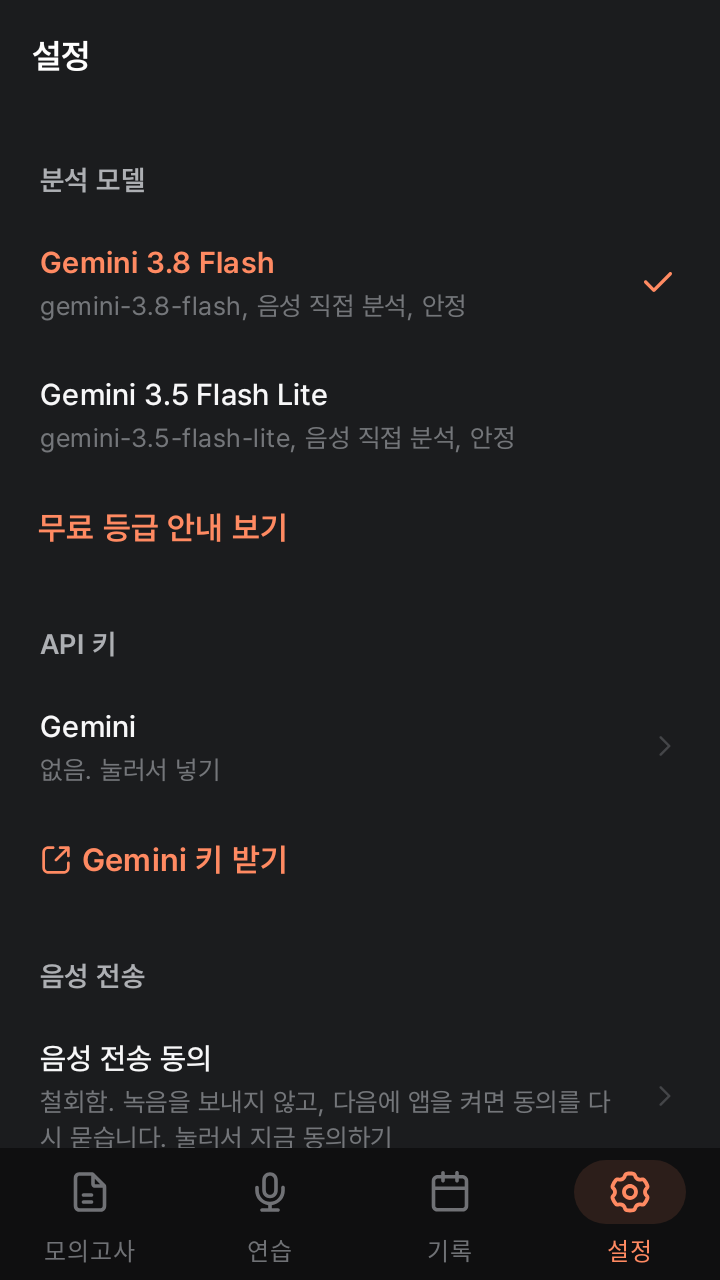
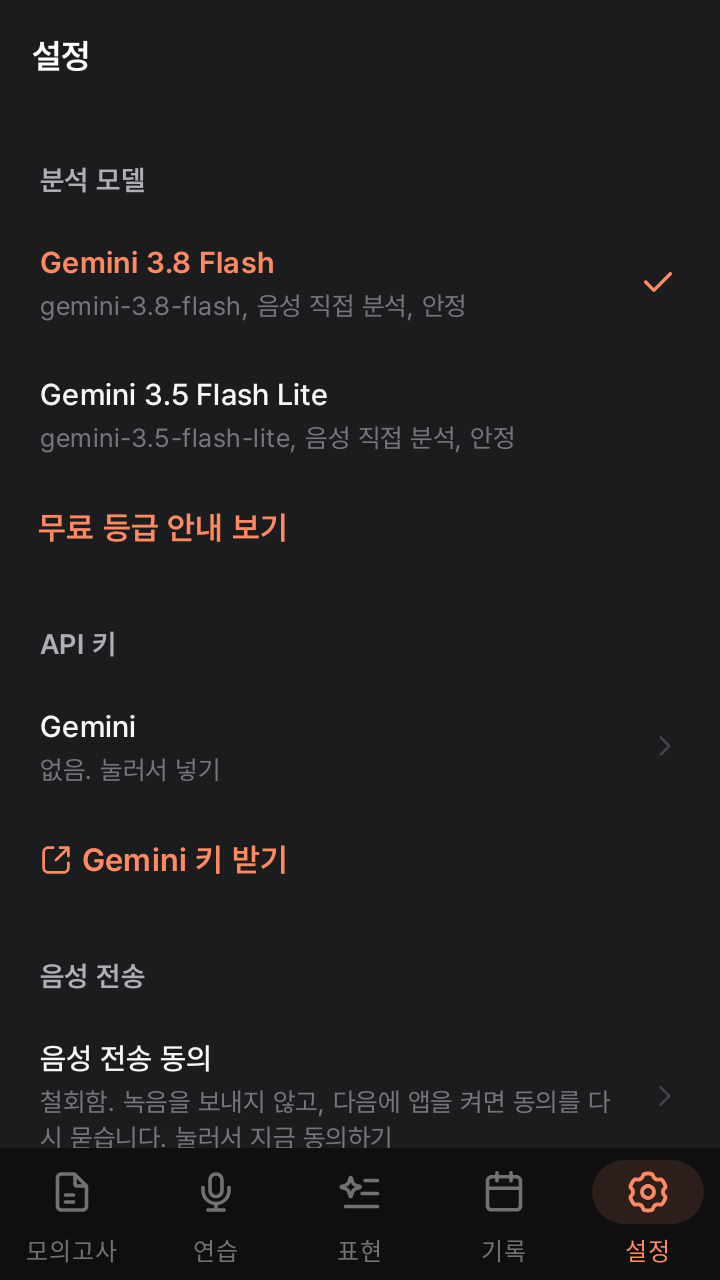
[expressions-tab] 하단 탭을 다섯으로 늘리고 표현 탭, 상세, 복습 경로를 이었다 (#291)
카드 저장소, 기기 시간대, 기기 음성, 복습 설정(소리 없이, 복습 양, 이번 묶음)을 그래프에 넣고 앱 틀 스크린샷을 다시 찍었다(F18.1, F18.8).

diff --git a/apps/opic/shared/src/commonMain/kotlin/io/github/nosorae/aiopic/apps/opic/shared/AppSettings.kt b/apps/opic/shared/src/commonMain/kotlin/io/github/nosorae/aiopic/apps/opic/shared/AppSettings.kt
@@ -2,9 +2,13 @@ package io.github.nosorae.aiopic.apps.opic.shared
 
 import io.github.nosorae.aiopic.engine.question.model.Question
 import io.github.nosorae.aiopic.engine.question.model.SurveyAnswers
+import io.github.nosorae.aiopic.engine.review.Rating
+import io.github.nosorae.aiopic.engine.review.ReviewAmount
 import io.github.nosorae.aiopic.libs.haptics.api.Haptics
 import io.github.nosorae.aiopic.packs.opicen.OpicEn
 import io.github.nosorae.aiopic.ui.featureexam.SurveyStore
+import io.github.nosorae.aiopic.ui.featureexpressions.ReviewBatch
+import io.github.nosorae.aiopic.ui.featureexpressions.ReviewSettings
 import io.github.nosorae.aiopic.ui.featurelive.LiveConsent
 import io.github.nosorae.aiopic.ui.featurelive.TargetGradeStore
 import io.github.nosorae.aiopic.ui.featureonboarding.consent.VoiceConsent
@@ -20,7 +24,7 @@ import kotlinx.coroutines.flow.asStateFlow
 import kotlinx.serialization.json.Json
 
 /**
- * 설정 값(화면 모드, 고른 분석 모델, 음성 전송 동의, 실시간 음성 전송 동의, 답변 타이머, 불러온 문항 파일, 진동, 서베이 답, 질문 음성, 코치 목표 등급)을 플랫폼 설정 저장소에 둔다.
+ * 설정 값(화면 모드, 고른 분석 모델, 음성 전송 동의, 실시간 음성 전송 동의, 답변 타이머, 불러온 문항 파일, 진동, 서베이 답, 질문 음성, 코치 목표 등급, 복습의 소리 없이와 이번 묶음)을 플랫폼 설정 저장소에 둔다.
  * 플랫폼은 문자열 읽기와 쓰기 두 함수만 넘긴다(Android SharedPreferences, iOS NSUserDefaults). 키가 아니라서 암호화하지 않는다.
  */
 class AppSettings(private val read: (String) -> String?, private val write: (String, String) -> Unit) :
@@ -32,7 +36,8 @@ class AppSettings(private val read: (String) -> String?, private val write: (Str
     HapticsStore,
     SurveyStore,
     TargetGradeStore,
-    LiveConsent {
+    LiveConsent,
+    ReviewSettings {
     private val mode = MutableStateFlow(ThemeMode.entries.firstOrNull { it.name == read(THEME_MODE) } ?: ThemeMode.System)
     override val themeMode: StateFlow<ThemeMode> = mode.asStateFlow()
 
@@ -109,6 +114,24 @@ class AppSettings(private val read: (String) -> String?, private val write: (Str
 
     override suspend fun saveSurveyAnswers(answers: SurveyAnswers) = write(SURVEY_ANSWERS, Json.encodeToString(answers))
 
+    override suspend fun silent(): Boolean = read(REVIEW_SILENT) == "true"
+
+    override suspend fun setSilent(on: Boolean) = write(REVIEW_SILENT, on.toString())
+
+    // 복습 양을 고르는 설정 화면은 아직 없다(review-notify 노드). 고른 적이 없으면 보통이다.
+    override suspend fun reviewAmount(): ReviewAmount = ReviewAmount.entries.firstOrNull { it.name == read(REVIEW_AMOUNT) } ?: ReviewAmount.Normal
+
+    /** 이번 묶음은 "카드 id 들|결과들" 한 줄로 둔다. 결과는 평가 이름이고 처음 봄 카드의 다음은 빈 칸이다(F18.8). */
+    override suspend fun reviewBatch(): ReviewBatch? = read(REVIEW_BATCH)?.takeIf { it.isNotEmpty() }?.let { saved ->
+        val (ids, results) = saved.split('|')
+        ReviewBatch(
+            cardIds = ids.split(',').filter { it.isNotEmpty() }.map(String::toLong),
+            results = if (results.isEmpty()) emptyList() else results.split(',').map { name -> Rating.entries.firstOrNull { it.name == name } },
+        )
+    }
+
+    override suspend fun saveReviewBatch(batch: ReviewBatch) = write(REVIEW_BATCH, batch.cardIds.joinToString(",") + "|" + batch.results.joinToString(",") { it?.name.orEmpty() })
+
     /** 첫 분석을 시작할 때 알림 권한을 한 번 물었는가(#229). 거절해도 다시 묻지 않는다. */
     var notificationsAsked: Boolean
         get() = read(NOTIFICATIONS_ASKED) == "true"
@@ -132,6 +155,9 @@ class AppSettings(private val read: (String) -> String?, private val write: (Str
         private const val SURVEY_ANSWERS = "survey_answers"
         private const val NOTIFICATIONS_ASKED = "notifications_asked"
         private const val TARGET_GRADE = "target_grade"
+        private const val REVIEW_SILENT = "review_silent"
+        private const val REVIEW_AMOUNT = "review_amount"
+        private const val REVIEW_BATCH = "review_batch"
 
         /** 앱 틀 테스트처럼 기기에 남길 필요가 없을 때 쓴다. */
         fun inMemory(): AppSettings {

diff --git a/apps/opic/shared/src/commonMain/kotlin/io/github/nosorae/aiopic/apps/opic/shared/AppRoute.kt b/apps/opic/shared/src/commonMain/kotlin/io/github/nosorae/aiopic/apps/opic/shared/AppRoute.kt
@@ -24,6 +24,9 @@ sealed class AppRoute {
     /** 연습 탭. Play 한 번으로 [Practice] 를 열어 바로 질문을 읽는다. */
     @Serializable data object PracticeTab : AppRoute()
 
+    /** 표현 탭(S19, F18.1). 오늘 복습, 자주 틀리는 유형, 묶음 칩, 표현 목록. */
+    @Serializable data object ExpressionsTab : AppRoute()
+
     @Serializable data object History : AppRoute()
 
     @Serializable data object Settings : AppRoute()
@@ -52,6 +55,12 @@ sealed class AppRoute {
     /** 코치 세션의 스크립트(F14). 코치 대화가 끝나면 대화 화면 자리에 열리고, 기록 탭의 스크립트 줄로 다시 연다. 질문 글은 다듬기 요청에 쓴다. */
     @Serializable data class CoachScript(val sessionId: String, val questionId: String, val question: String) : AppRoute()
 
+    /** 표현 상세(S20). 표현 탭의 목록 줄이 연다. */
+    @Serializable data class Expression(val cardId: Long) : AppRoute()
+
+    /** 복습(S21). 표현 탭의 복습 시작이 연다. 누른 평가는 바로 저장돼서 뒤로가기를 막지 않는다(F18.8). */
+    @Serializable data object Review : AppRoute()
+
     /** 설정의 제공사별 키 관리에서 여는 키 입력. [provider] 는 제공사 이름(`gemini`)이다. */
     @Serializable data class KeyEntry(val provider: String) : AppRoute()
 
@@ -75,8 +84,8 @@ sealed class AppRoute {
 
     private val chrome: Chrome
         get() = when (this) {
-            ExamTab, PracticeTab, History, Settings -> Chrome.TopLevel
-            is ReportDetail, is AnswerReport, is CoachScript, is KeyEntry, FreeTierNotice, Survey, FlagExport, AppInfo -> Chrome.Sub
+            ExamTab, PracticeTab, ExpressionsTab, History, Settings -> Chrome.TopLevel
+            is ReportDetail, is AnswerReport, is CoachScript, is KeyEntry, FreeTierNotice, Survey, FlagExport, AppInfo, is Expression, Review -> Chrome.Sub
             is Exam, is Practice, is Coach -> Chrome.FullScreen
             StartKeyEntry, StartConsent -> Chrome.Start
         }
@@ -85,6 +94,8 @@ sealed class AppRoute {
         get() = when (this) {
             ExamTab -> "모의고사"
             PracticeTab -> "연습"
+            ExpressionsTab, is Expression -> "표현"
+            Review -> "복습"
             History -> "기록"
             Settings -> "설정"
             is ReportDetail -> "회차 리포트"
@@ -118,7 +129,7 @@ sealed class AppRoute {
 
     companion object {
         /** 하단 탭 순서. 값으로 두면 하위 object 초기화와 순환해 null 이 들어가므로 읽을 때 만든다. */
-        val tabs: List<AppRoute> get() = listOf(ExamTab, PracticeTab, History, Settings)
+        val tabs: List<AppRoute> get() = listOf(ExamTab, PracticeTab, ExpressionsTab, History, Settings)
 
         /** 시작 분기(S0, F1.0) 결과의 첫 화면. 키 입력과 동의는 탭 위가 아니라 백스택 맨 아래에 혼자 둔다. */
         fun start(destination: StartDestination): AppRoute = when (destination) {

diff --git a/apps/opic/shared/src/commonMain/kotlin/io/github/nosorae/aiopic/apps/opic/shared/AppGraph.kt b/apps/opic/shared/src/commonMain/kotlin/io/github/nosorae/aiopic/apps/opic/shared/AppGraph.kt
@@ -77,6 +77,11 @@ import io.github.nosorae.aiopic.ui.featureexam.ExamRepository
 import io.github.nosorae.aiopic.ui.featureexam.ExamViewModel
 import io.github.nosorae.aiopic.ui.featureexam.SurveyStore
 import io.github.nosorae.aiopic.ui.featureexam.SurveyViewModel
+import io.github.nosorae.aiopic.ui.featureexpressions.ExpressionDetailViewModel
+import io.github.nosorae.aiopic.ui.featureexpressions.ExpressionVoice
+import io.github.nosorae.aiopic.ui.featureexpressions.ExpressionsViewModel
+import io.github.nosorae.aiopic.ui.featureexpressions.ReviewSettings
+import io.github.nosorae.aiopic.ui.featureexpressions.ReviewViewModel
 import io.github.nosorae.aiopic.ui.featurehistory.HistoryScript
 import io.github.nosorae.aiopic.ui.featurehistory.HistoryStore
 import io.github.nosorae.aiopic.ui.featurehistory.HistoryViewModel
@@ -167,6 +172,12 @@ interface AppGraph {
 
     val historyViewModel: HistoryViewModel
 
+    val expressionsViewModel: ExpressionsViewModel
+
+    val expressionDetailViewModelFactory: ExpressionDetailViewModel.Factory
+
+    val reviewViewModel: ReviewViewModel
+
     val settingsViewModel: SettingsViewModel
 
     val coachStartViewModel: CoachStartViewModel
@@ -221,6 +232,19 @@ interface AppGraph {
     @Provides fun targetGradeStore(settings: AppSettings): TargetGradeStore = settings
 
     @Provides fun liveConsent(settings: AppSettings): LiveConsent = settings
+
+    @Provides fun reviewSettings(settings: AppSettings): ReviewSettings = settings
+
+    /** 앱의 하루(새벽 4시에 바뀜)를 세는 기기 시간대(F18.11). */
+    // ponytail: 그래프를 만들 때 한 번 읽는다. 앱이 떠 있는 동안 시간대를 바꾸면 다음 실행부터 따른다.
+    @Provides fun timeZone(): TimeZone = TimeZone.currentSystemDefault()
+
+    @SingleIn(AppScope::class)
+    @Provides
+    fun cardStore(database: OpicDatabase, timeZone: TimeZone): CardStore = CardStore(database, timeZone)
+
+    /** 표현은 미리 만든 질문 음성이 없어서 기기 음성으로 바로 읽는다(F18.3, F18.4). */
+    @Provides fun expressionVoice(@Named(DEVICE_TTS) device: Tts): ExpressionVoice = ExpressionVoice { device.speak(it) }
 
     /**
      * 코치 세션 하나를 돌릴 코치(F11). 시험 팩의 코치 프로필, 사용자 키로 여는 Gemini Live 연결, 플랫폼 오디오, 앱 DB 의 코치 표를 묶는다.

diff --git a/ui/feature-expressions/src/commonMain/kotlin/io/github/nosorae/aiopic/ui/featureexpressions/ExpressionDetailViewModel.kt b/ui/feature-expressions/src/commonMain/kotlin/io/github/nosorae/aiopic/ui/featureexpressions/ExpressionDetailViewModel.kt
@@ -81,23 +81,33 @@ class ExpressionDetailViewModel(
         val card = _uiState.value.detail?.card
         when (intent) {
             ExpressionDetailIntent.Listen -> card?.let { viewModelScope.launch { speakExpressionUseCase(it.better) } }
+
             ExpressionDetailIntent.StartEdit -> card?.let { c -> _uiState.update { it.copy(editing = true, draftBetter = c.better, draftMeaning = c.meaning) } }
+
             is ExpressionDetailIntent.ChangeBetter -> _uiState.update { it.copy(draftBetter = intent.text) }
+
             is ExpressionDetailIntent.ChangeMeaning -> _uiState.update { it.copy(draftMeaning = intent.text) }
+
             ExpressionDetailIntent.SaveEdit -> {
                 val state = _uiState.value
                 if (!state.canSave) return
                 _uiState.update { it.copy(editing = false) }
                 viewModelScope.launch { editExpressionUseCase(cardId, state.draftBetter, state.draftMeaning) }
             }
+
             ExpressionDetailIntent.CancelEdit -> _uiState.update { it.copy(editing = false) }
+
             ExpressionDetailIntent.Know -> {
                 _uiState.update { it.copy(intervalExtended = true) }
                 viewModelScope.launch { knowExpressionUseCase(cardId) }
             }
+
             ExpressionDetailIntent.ToggleArchive -> card?.let { viewModelScope.launch { archiveExpressionUseCase(cardId, !it.archived) } }
+
             ExpressionDetailIntent.AskDelete -> _uiState.update { it.copy(confirmingDelete = true) }
+
             ExpressionDetailIntent.CancelDelete -> _uiState.update { it.copy(confirmingDelete = false) }
+
             ExpressionDetailIntent.ConfirmDelete -> {
                 _uiState.update { it.copy(confirmingDelete = false) }
                 viewModelScope.launch {
@@ -105,6 +115,7 @@ class ExpressionDetailViewModel(
                     _uiState.update { it.copy(deleted = true) }
                 }
             }
+
             ExpressionDetailIntent.NavigationHandled -> _uiState.update { it.copy(deleted = false) }
         }
     }

diff --git a/apps/opic/shared/src/commonMain/kotlin/io/github/nosorae/aiopic/apps/opic/shared/RouteContent.kt b/apps/opic/shared/src/commonMain/kotlin/io/github/nosorae/aiopic/apps/opic/shared/RouteContent.kt
@@ -14,6 +14,9 @@ import androidx.lifecycle.viewmodel.compose.viewModel
 import io.github.nosorae.aiopic.libs.debug.DebugTools
 import io.github.nosorae.aiopic.ui.featureexam.ExamRoute
 import io.github.nosorae.aiopic.ui.featureexam.SurveyRoute
+import io.github.nosorae.aiopic.ui.featureexpressions.ExpressionDetailRoute
+import io.github.nosorae.aiopic.ui.featureexpressions.ExpressionsRoute
+import io.github.nosorae.aiopic.ui.featureexpressions.ReviewRoute
 import io.github.nosorae.aiopic.ui.featurehistory.HistoryRoute
 import io.github.nosorae.aiopic.ui.featurehome.HomeRoute
 import io.github.nosorae.aiopic.ui.featurelive.CoachScriptRoute
@@ -87,6 +90,23 @@ internal fun RouteContent(
             onOpenCoach = { coachOpen = true },
             modifier = modifier,
         )
+
+        AppRoute.ExpressionsTab -> ExpressionsRoute(
+            viewModel = viewModel { graph.expressionsViewModel },
+            onOpenCard = { onOpen(AppRoute.Expression(it)) },
+            onStartReview = { onOpen(AppRoute.Review) },
+            // 말하기 연습 화면은 아직 앱에 없다. 그 화면을 더하는 노드(speaking-ui)가 여기에 연결한다.
+            onStartPractice = null,
+            modifier = modifier,
+        )
+
+        is AppRoute.Expression -> ExpressionDetailRoute(
+            viewModel = viewModel(key = route.toString()) { graph.expressionDetailViewModelFactory.create(route.cardId) },
+            onDeleted = onBack,
+            modifier = modifier,
+        )
+
+        AppRoute.Review -> ReviewRoute(viewModel = viewModel { graph.reviewViewModel }, onExit = onBack, modifier = modifier)
 
         AppRoute.History -> HistoryRoute(
             viewModel = viewModel { graph.historyViewModel },

diff --git a/apps/opic/shared/src/commonTest/kotlin/io/github/nosorae/aiopic/apps/opic/shared/AppRouteTest.kt b/apps/opic/shared/src/commonTest/kotlin/io/github/nosorae/aiopic/apps/opic/shared/AppRouteTest.kt
@@ -5,15 +5,15 @@ import kotlin.test.Test
 import kotlin.test.assertEquals
 
 class AppRouteTest {
-    private val subScreens = listOf(AppRoute.ReportDetail("s"), AppRoute.AnswerReport("a"), AppRoute.CoachScript("c", "q", "Tell me about a trip."), AppRoute.KeyEntry("gemini"), AppRoute.FreeTierNotice, AppRoute.Survey, AppRoute.FlagExport, AppRoute.AppInfo)
+    private val subScreens = listOf(AppRoute.ReportDetail("s"), AppRoute.AnswerReport("a"), AppRoute.CoachScript("c", "q", "Tell me about a trip."), AppRoute.KeyEntry("gemini"), AppRoute.FreeTierNotice, AppRoute.Survey, AppRoute.FlagExport, AppRoute.AppInfo, AppRoute.Expression(1), AppRoute.Review)
     private val everyRoute = AppRoute.tabs + subScreens + listOf(AppRoute.Exam("s"), AppRoute.Practice("a"), AppRoute.Coach("c", "q", "Tell me about a trip.", "IH"), AppRoute.StartKeyEntry, AppRoute.StartConsent)
 
     private fun tabBar(platform: Platform) = everyRoute.filter { it.showsTabBar(platform) }
 
     @Test
-    fun `하단 탭은 모의고사 연습 기록 설정 넷이다`() {
-        assertEquals(listOf(AppRoute.ExamTab, AppRoute.PracticeTab, AppRoute.History, AppRoute.Settings), AppRoute.tabs)
-        assertEquals(listOf("모의고사", "연습", "기록", "설정"), AppRoute.tabs.map { it.title })
+    fun `F18_1 하단 탭은 모의고사 연습 표현 기록 설정 다섯이다`() {
+        assertEquals(listOf(AppRoute.ExamTab, AppRoute.PracticeTab, AppRoute.ExpressionsTab, AppRoute.History, AppRoute.Settings), AppRoute.tabs)
+        assertEquals(listOf("모의고사", "연습", "표현", "기록", "설정"), AppRoute.tabs.map { it.title })
     }
 
     @Test

diff --git a/apps/opic/shared/src/commonTest/kotlin/io/github/nosorae/aiopic/apps/opic/shared/AppSettingsTest.kt b/apps/opic/shared/src/commonTest/kotlin/io/github/nosorae/aiopic/apps/opic/shared/AppSettingsTest.kt
@@ -3,8 +3,11 @@ package io.github.nosorae.aiopic.apps.opic.shared
 import io.github.nosorae.aiopic.engine.question.model.Question
 import io.github.nosorae.aiopic.engine.question.model.QuestionType
 import io.github.nosorae.aiopic.engine.question.model.SurveyAnswers
+import io.github.nosorae.aiopic.engine.review.Rating
+import io.github.nosorae.aiopic.engine.review.ReviewAmount
 import io.github.nosorae.aiopic.libs.haptics.api.HapticEffect
 import io.github.nosorae.aiopic.libs.haptics.api.Haptics
+import io.github.nosorae.aiopic.ui.featureexpressions.ReviewBatch
 import io.github.nosorae.aiopic.ui.featuresettings.theme.ThemeMode
 import kotlinx.coroutines.test.runTest
 import kotlin.test.Test
@@ -156,5 +159,20 @@ class AppSettingsTest {
         disk["target_grade"] = "NL"
 
         assertEquals("IH", reopen().targetGrade.value)
+    }
+
+    @Test
+    fun `F18_8 이번 묶음과 누른 결과는 앱을 다시 켜도 남는다`() = runTest {
+        val batch = ReviewBatch(listOf(3L, 1L, 2L), listOf(null, Rating.Again))
+        reopen().saveReviewBatch(batch)
+
+        assertEquals(batch, reopen().reviewBatch())
+    }
+
+    @Test
+    fun `F18_5 F18_7 소리 없이는 처음 꺼짐이고 복습 양은 처음 보통이다`() = runTest {
+        val settings = reopen()
+
+        assertEquals(false to ReviewAmount.Normal, settings.silent() to settings.reviewAmount())
     }
 }

diff --git a/ui/feature-expressions/src/commonMain/kotlin/io/github/nosorae/aiopic/ui/featureexpressions/ExpressionsScreen.kt b/ui/feature-expressions/src/commonMain/kotlin/io/github/nosorae/aiopic/ui/featureexpressions/ExpressionsScreen.kt
@@ -171,8 +171,7 @@ internal val Gutter = MontageSpacing.spacing20
 internal object ExpressionSamples {
     private val at = Instant.parse("2026-11-19T09:00:00Z")
 
-    private fun card(id: Long, kind: CardKind, said: String, better: String, meaning: String, errorType: ErrorType? = null, firstSeen: Boolean = false) =
-        ExpressionCard(id, kind, said, better, meaning, errorType, "주말에 한 일을 말하다가", createdAt = at, dueAt = at, firstSeen = firstSeen, reviewCount = 3, againCount = 1)
+    private fun card(id: Long, kind: CardKind, said: String, better: String, meaning: String, errorType: ErrorType? = null, firstSeen: Boolean = false) = ExpressionCard(id, kind, said, better, meaning, errorType, "주말에 한 일을 말하다가", createdAt = at, dueAt = at, firstSeen = firstSeen, reviewCount = 3, againCount = 1)
 
     val correction = card(1, CardKind.Correction, "I go to the park yesterday with my friend.", "I went to the park yesterday with my friend.", "어제 친구와 공원에 갔다.", ErrorType.Tense)
     val article = card(2, CardKind.Correction, "I have dog at home.", "I have a dog at home.", "집에 개가 한 마리 있다.", ErrorType.Article)

diff --git a/apps/opic/shared/src/androidHostTest/kotlin/io/github/nosorae/aiopic/apps/opic/shared/RouteContentTest.kt b/apps/opic/shared/src/androidHostTest/kotlin/io/github/nosorae/aiopic/apps/opic/shared/RouteContentTest.kt
@@ -21,6 +21,9 @@ class RouteContentTest {
         AppRoute.ExamTab -> "아직 마친 회차가 없습니다"
         AppRoute.PracticeTab -> "질문이 끝나면 바로 녹음돼요"
         AppRoute.History -> "아직 기록이 없습니다"
+        AppRoute.ExpressionsTab -> "말하기 연습을 하면 여기에 표현이 쌓여요"
+        is AppRoute.Expression -> "지워진 표현이에요"
+        AppRoute.Review -> "오늘 복습할 표현이 없어요"
         AppRoute.Settings -> "분석 모델"
         is AppRoute.ReportDetail -> "이 회차를 찾을 수 없습니다."
         is AppRoute.AnswerReport -> "이 답변을 찾을 수 없습니다."
@@ -47,6 +50,12 @@ class RouteContentTest {
     @Test fun practiceTab() = assertDraws(AppRoute.PracticeTab)
 
     @Test fun history() = assertDraws(AppRoute.History)
+
+    @Test fun expressionsTab() = assertDraws(AppRoute.ExpressionsTab)
+
+    @Test fun expression() = assertDraws(AppRoute.Expression(1))
+
+    @Test fun review() = assertDraws(AppRoute.Review)
 
     @Test fun settings() = assertDraws(AppRoute.Settings)
 

diff --git a/apps/opic/shared/src/androidMain/kotlin/io/github/nosorae/aiopic/apps/opic/shared/AppShell.kt b/apps/opic/shared/src/androidMain/kotlin/io/github/nosorae/aiopic/apps/opic/shared/AppShell.kt
@@ -47,6 +47,7 @@ import io.github.nosorae.aiopic.libs.haptics.api.androidHaptics
 import io.github.nosorae.aiopic.ui.design.LocalHaptics
 import io.github.nosorae.aiopic.ui.design.MontageTheme
 import io.github.nosorae.aiopic.ui.design.Res
+import io.github.nosorae.aiopic.ui.design.icon_normal_ai_review
 import io.github.nosorae.aiopic.ui.design.icon_normal_calendar
 import io.github.nosorae.aiopic.ui.design.icon_normal_document_text
 import io.github.nosorae.aiopic.ui.design.icon_normal_microphone
@@ -171,6 +172,7 @@ private fun SnapshotStateList<AppRoute>.replaceAll(next: List<AppRoute>) = Snaps
 
 private fun tabIcon(tab: AppRoute) = when (tab) {
     AppRoute.PracticeTab -> Res.drawable.icon_normal_microphone
+    AppRoute.ExpressionsTab -> Res.drawable.icon_normal_ai_review
     AppRoute.History -> Res.drawable.icon_normal_calendar
     AppRoute.Settings -> Res.drawable.icon_normal_setting
     else -> Res.drawable.icon_normal_document_text

diff --git a/ui/feature-expressions/src/commonMain/kotlin/io/github/nosorae/aiopic/ui/featureexpressions/ReviewViewModel.kt b/ui/feature-expressions/src/commonMain/kotlin/io/github/nosorae/aiopic/ui/featureexpressions/ReviewViewModel.kt
@@ -85,13 +85,18 @@ class ReviewViewModel(
                 _uiState.update { it.copy(revealed = true) }
                 speakCurrent()
             }
+
             is ReviewIntent.Rate -> advance(intent.rating)
+
             ReviewIntent.Next -> advance(null)
+
             ReviewIntent.ShowAllRatings -> _uiState.update { it.copy(allRatings = true) }
+
             is ReviewIntent.SetSilent -> {
                 _uiState.update { it.copy(silent = intent.on) }
                 viewModelScope.launch { setSilentUseCase(intent.on) }
             }
+
             ReviewIntent.MoreCards -> start(more = true)
         }
     }

diff --git a/apps/opic/shared/src/androidHostTest/kotlin/io/github/nosorae/aiopic/apps/opic/shared/AppShellScreenshotTest.kt b/apps/opic/shared/src/androidHostTest/kotlin/io/github/nosorae/aiopic/apps/opic/shared/AppShellScreenshotTest.kt
@@ -32,6 +32,8 @@ class AppShellScreenshotTest {
 
     @Test fun history() = shot(AppRoute.ExamTab, AppRoute.History)
 
+    @Test fun expressionsTab() = shot(AppRoute.ExamTab, AppRoute.ExpressionsTab)
+
     @Test fun flagExport() = shot(AppRoute.ExamTab, AppRoute.Settings, AppRoute.FlagExport)
 
     /** 첫 실행(S1, S2)은 탭 없이 혼자 뜬다. */
